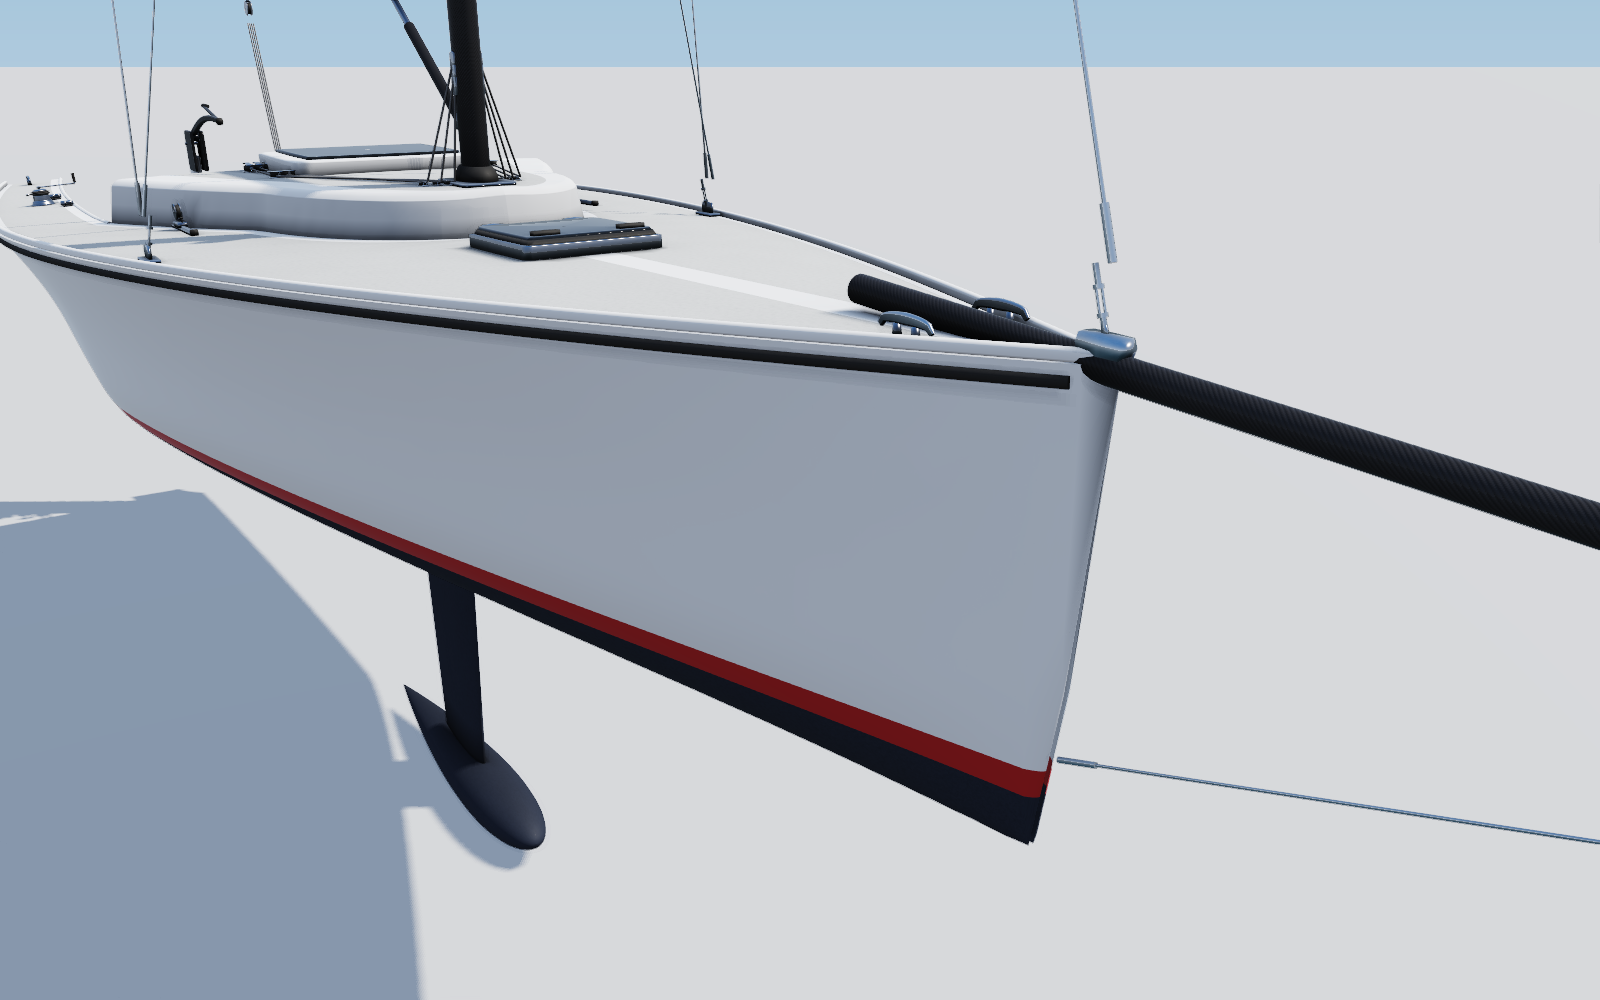
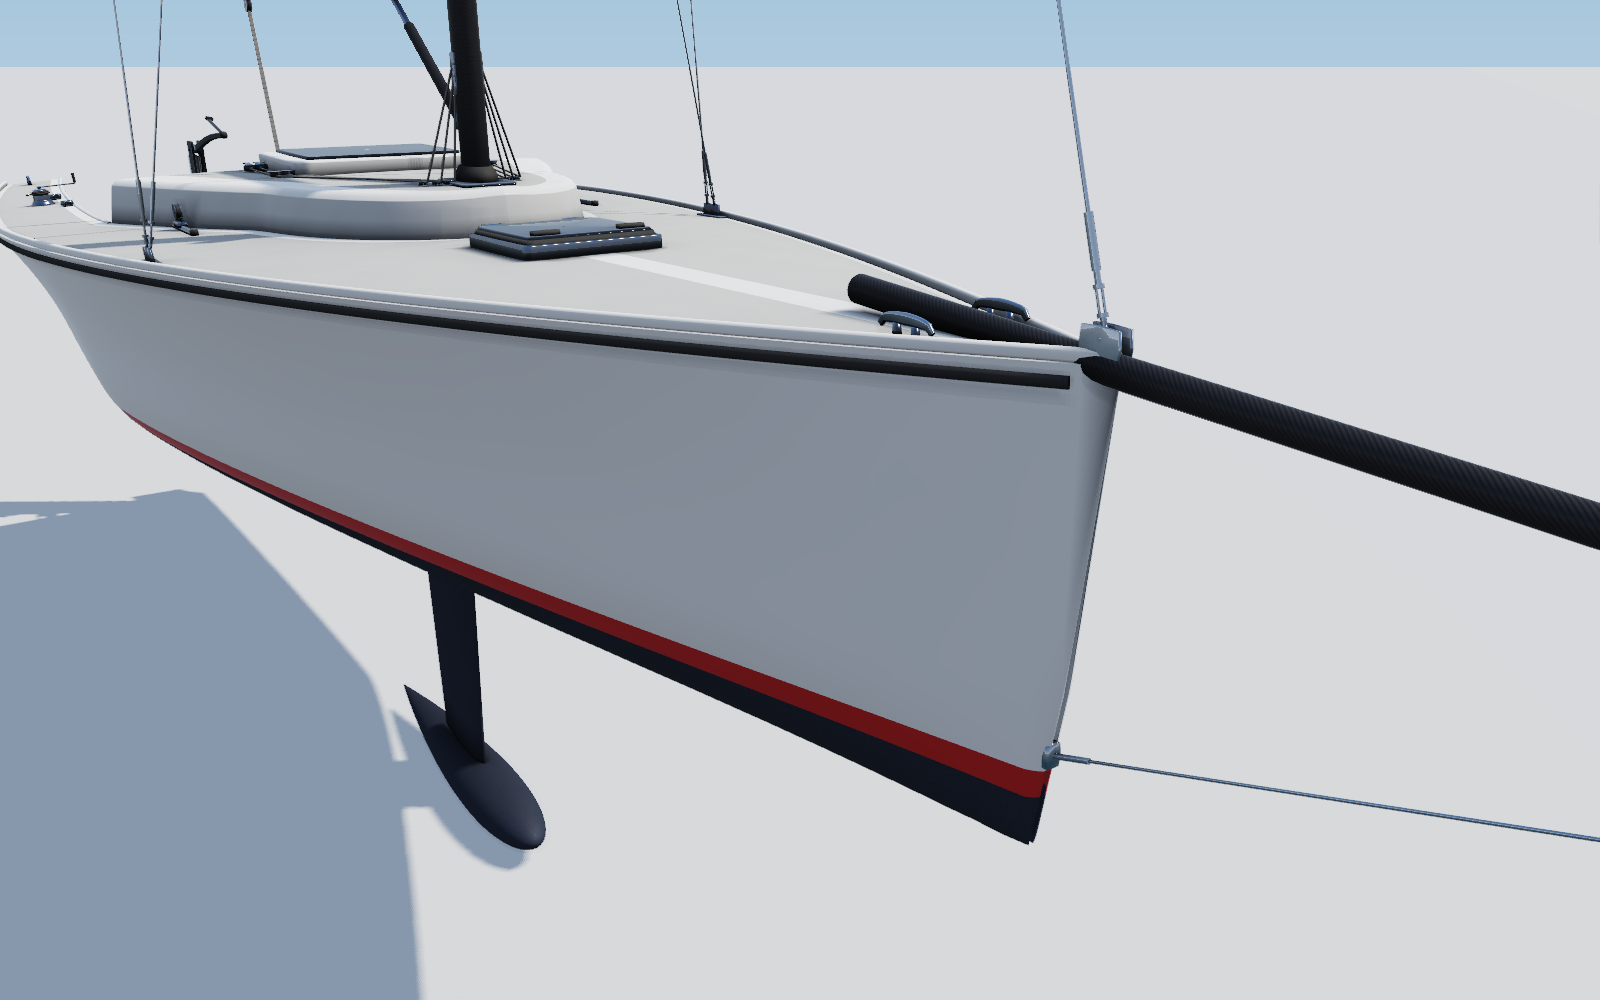
[feature] Boatgen: real-material look for gelcoat, non-slip, metal and rope
- gelcoat 0.72 linear with a soft sheen (factor under the 0.8 cap), matt greyer non-slip
- procedural moulded diamond non-slip texture set replaces the pebble leather
- polished stainless metal, flecked braid rope, rubber
- previews regenerated

diff --git a/tools/boatgen/boatgen/textures.py b/tools/boatgen/boatgen/textures.py
@@ -9,7 +9,8 @@ detail around a mean of one, so a slot's average look does not depend on the tex
 - `<set>_normal.jpg`: tangent-space normal map, OpenGL convention (+Y up), as glTF expects
 
 The images are made from CC0 materials of ambientCG (docs/THIRD_PARTY.md) by `python3 -m boatgen.textures`, which
-downloads the 1K sources and writes the processed files. The build only reads the processed files.
+downloads the 1K sources and writes the processed files; sets without a source asset (the moulded non-slip) are
+drawn here (`--procedural` rewrites only those). The build only reads the processed files.
 """
 import io
 import os
@@ -29,19 +30,19 @@ ROUGH_MEAN = 0.80
 # set -> (ambientCG asset, colour detail contrast, roughness contrast, normal strength)
 SETS = {
     "orange_peel": ("Plastic013A", 0.15, 0.4, 1.0),   # gelcoat and paint: slight orange peel
-    "pebble": ("Leather026", 0.35, 0.6, 1.4),         # moulded non-slip grain
     "grain": ("Rubber004", 0.35, 0.5, 0.8),           # rolled antifouling, rubber
     "carbon_twill": ("Fabric004", 1.0, 0.6, 1.0),     # carbon twill weave
     "brushed": ("Metal009", 0.4, 0.6, 0.6),           # brushed stainless and aluminium
     "weave": ("Fabric062", 0.35, 0.3, 0.0),           # sailcloth (no normal map, sail_visuals.md 9)
     "braid": ("Rope002", 0.8, 0.4, 1.0),              # braided rope
+    "diamond": (None, 0.25, 0.35, 1.0),               # moulded non-slip: raised diamond pattern (procedural)
 }
 
 # slot -> (set or None, tile size in metres: one image covers tiling_m x tiling_m of uv0)
 SLOTS = {
     "gelcoat": ("orange_peel", 0.5),
     "boottop": ("orange_peel", 0.5),
-    "nonslip": ("pebble", 0.25),
+    "nonslip": ("diamond", 0.1),
     "antifouling": ("grain", 0.5),
     "rubber": ("grain", 0.1),
     "carbon": ("carbon_twill", 0.05),
@@ -104,9 +105,51 @@ def process(set_name, zip_bytes):
         os.remove(p["normal"])
 
 
+def diamond(period_px=32, seed=7):
+    """Moulded non-slip, made here (no source asset): a grid of raised, flat-topped pyramids turned 45 degrees,
+    repeating every `period_px` along each image axis (16 across the tile, about 6 mm at the 0.1 m tile), with a
+    little moulding noise. The grooves are darker (dirt, occlusion) and rougher than the worn tops. Seamless."""
+    rng = np.random.default_rng(seed)
+    v, u = np.mgrid[0:SIZE, 0:SIZE].astype(np.float64)
+    a, b = (u + v) / period_px, (u - v) / period_px
+    # distance to the nearest groove line in each direction, 0 at a groove, 0.5 at a pyramid centre
+    da, db = np.abs(a - np.round(a)), np.abs(b - np.round(b))
+    h = np.clip(np.minimum(da, db) / 0.32, 0, 1)            # pyramid flanks, flat top above 0.32
+    # periodic low-frequency noise: a few waves with whole numbers of cycles across the tile
+    noise = np.zeros_like(h)
+    for _ in range(12):
+        fu, fv = rng.integers(1, 9, 2)
+        noise += np.cos(2 * np.pi * (fu * u + fv * v) / SIZE + rng.uniform(0, 2 * np.pi))
+    noise /= 12 ** 0.5 * 2
+    h = h + 0.06 * noise
+    # normal from the height gradient (wrapping, so the tile repeats), OpenGL convention
+    gx = (np.roll(h, -1, 1) - np.roll(h, 1, 1)) * 0.5
+    gy = (np.roll(h, -1, 0) - np.roll(h, 1, 0)) * 0.5
+    k = 2.2
+    n = np.stack([-k * gx, k * gy, np.ones_like(h)], -1)
+    n /= np.linalg.norm(n, axis=-1, keepdims=True)
+    col = _detail(0.75 + 0.25 * h, DETAIL_MEAN, 1.0)
+    rough = _detail(1.15 - 0.3 * h, ROUGH_MEAN, 1.0)
+    return col, rough, n
+
+
+def process_procedural(set_name):
+    col, rough, n = {"diamond": diamond}[set_name]()
+    p = paths(set_name)
+    grey = _lin_to_srgb(col)
+    mr = np.stack([np.ones_like(rough), rough, np.ones_like(rough)], -1)
+    Image.fromarray((np.repeat(grey[..., None], 3, -1) * 255 + 0.5).astype(np.uint8)).save(p["color"], quality=92)
+    Image.fromarray((mr * 255 + 0.5).astype(np.uint8)).save(p["mr"], quality=92)
+    Image.fromarray(((n * 0.5 + 0.5) * 255 + 0.5).astype(np.uint8)).save(p["normal"], quality=95)
+
+
 def fetch(set_names=None, cache=None):
     for s in set_names or SETS:
         asset = SETS[s][0]
+        if asset is None:
+            process_procedural(s)
+            print(f"{s}: procedural -> {', '.join(os.path.basename(v) for v in paths(s).values())}")
+            continue
         url = f"https://ambientcg.com/get?file={asset}_1K-JPG.zip"
         local = os.path.join(cache, f"{asset}.zip") if cache else None
         if local and os.path.exists(local):
@@ -126,4 +169,4 @@ if __name__ == "__main__":
     np.seterr(all="ignore")   # spurious BLAS flags in matmul on some platforms
     args = sys.argv[1:]
     cache = args[args.index("--cache") + 1] if "--cache" in args else None
-    fetch(cache=cache)
+    fetch([s for s in SETS if SETS[s][0] is None] if "--procedural" in args else None, cache=cache)

diff --git a/tools/boatgen/boatgen/gltf.py b/tools/boatgen/boatgen/gltf.py
@@ -13,17 +13,20 @@ from . import textures as tex
 
 # name -> (mean base colour RGBA linear, metallic, mean roughness); the tile size and texture set are in
 # textures.SLOTS. With textures the factors are divided by the texture means, so the mean look stays the same.
+# Real-material values (docs/specs/data_format.md 3.7): a white gelcoat reflects about 70 % and keeps a soft sheen,
+# not a mirror; the moulded non-slip is a shade greyer and matt; deck metal is polished stainless (about 60 %,
+# slightly blurred); rope is a flecked braid. No mean colour is above the boat shader's 0.8 albedo cap.
 MATERIALS = {
-    "gelcoat":     ((0.90, 0.91, 0.92, 1.0), 0.0, 0.16),
-    "nonslip":     ((0.58, 0.59, 0.58, 1.0), 0.0, 0.80),
+    "gelcoat":     ((0.72, 0.72, 0.70, 1.0), 0.0, 0.22),
+    "nonslip":     ((0.47, 0.47, 0.45, 1.0), 0.0, 0.85),
     "antifouling": ((0.035, 0.045, 0.07, 1.0), 0.0, 0.75),
     "boottop":     ((0.50, 0.03, 0.03, 1.0), 0.0, 0.25),
     "carbon":      ((0.035, 0.035, 0.038, 1.0), 0.1, 0.30),
-    "metal":       ((0.80, 0.80, 0.82, 1.0), 1.0, 0.28),
+    "metal":       ((0.62, 0.62, 0.64, 1.0), 1.0, 0.22),
     "sailcloth":   ((0.80, 0.80, 0.78, 1.0), 0.0, 0.55),
     "glass":       ((0.02, 0.025, 0.03, 1.0), 0.0, 0.05),
-    "rope":        ((0.30, 0.30, 0.30, 1.0), 0.0, 0.80),
-    "rubber":      ((0.04, 0.04, 0.04, 1.0), 0.0, 0.70),
+    "rope":        ((0.34, 0.33, 0.31, 1.0), 0.0, 0.85),
+    "rubber":      ((0.05, 0.05, 0.05, 1.0), 0.0, 0.80),
 }
 
 

diff --git a/tools/boatgen/tests/test_textures_ao.py b/tools/boatgen/tests/test_textures_ao.py
@@ -48,6 +48,13 @@ class TexturesAOTest(unittest.TestCase):
                 self.assertEqual(info["texCoord"], 0)
                 np.testing.assert_allclose(info["extensions"]["KHR_texture_transform"]["scale"], [1 / tiling] * 2)
             self.assertEqual("normalTexture" in m, textures.has_normal(tset))
+        # real-material albedo (data_format.md 3.7): every slot's mean at most 0.8 linear, and the gelcoat's factor
+        # too, so the boat shader's cap never flattens a white hull
+        for name, (col, met, rough) in gltf.MATERIALS.items():
+            self.assertLessEqual(max(col[:3]), 0.8, name)
+        gel = next(m for m in doc["materials"] if m["name"] == "gelcoat")
+        self.assertLessEqual(max(gel["pbrMetallicRoughness"]["baseColorFactor"][:3]), 0.8)
+        self.assertEqual(textures.SLOTS["nonslip"][0], "diamond", "non-slip has its moulded pattern")
         sail = next(m for m in doc["materials"] if m["name"] == "sailcloth")
         self.assertNotIn("normalTexture", sail, "sails carry no normal map (sail_visuals.md 9)")
 

diff --git a/docs/THIRD_PARTY.md b/docs/THIRD_PARTY.md
@@ -11,7 +11,6 @@
 | doctest 2.4.12 | core tests (`core/third_party/doctest`, test builds only) | MIT | https://github.com/doctest/doctest |
 | godot-cpp 10.0.0-stable (commit 507ed9d) | the GDExtension (`game/native`; fetched by `game/native/build.sh` into `game/native/third_party`, not committed), linked into `game/bin/libwindmark_godot.*` | MIT | https://github.com/godotengine/godot-cpp |
 | ambientCG Plastic013A | tools/boatgen/textures/orange_peel_* (processed: grey, 512 px), embedded in generated boat GLBs | CC0 1.0 | https://ambientcg.com/a/Plastic013A |
-| ambientCG Leather026 | tools/boatgen/textures/pebble_* (processed: grey, 512 px), embedded in generated boat GLBs | CC0 1.0 | https://ambientcg.com/a/Leather026 |
 | ambientCG Rubber004 | tools/boatgen/textures/grain_* (processed: grey, 512 px), embedded in generated boat GLBs | CC0 1.0 | https://ambientcg.com/a/Rubber004 |
 | ambientCG Fabric004 | tools/boatgen/textures/carbon_twill_* (processed: grey, 512 px), embedded in generated boat GLBs | CC0 1.0 | https://ambientcg.com/a/Fabric004 |
 | ambientCG Metal009 | tools/boatgen/textures/brushed_* (processed: grey, 512 px), embedded in generated boat GLBs | CC0 1.0 | https://ambientcg.com/a/Metal009 |

diff --git a/tools/boatgen/README.md b/tools/boatgen/README.md
@@ -317,7 +317,7 @@ slots and each image is embedded once per GLB (JPEG, 512 x 512, about 1.2 MB in 
 | set | slots | tile (m) | source (CC0, docs/THIRD_PARTY.md) |
 | --- | --- | --- | --- |
 | `orange_peel` | gelcoat, boottop | 0.5 | ambientCG Plastic013A |
-| `pebble` | nonslip | 0.25 | ambientCG Leather026 |
+| `diamond` | nonslip | 0.1 | procedural (textures.py): moulded raised-diamond non-slip, about 6 mm pitch |
 | `grain` | antifouling, rubber | 0.5, 0.1 | ambientCG Rubber004 |
 | `carbon_twill` | carbon | 0.05 | ambientCG Fabric004 |
 | `brushed` | metal | 0.2 | ambientCG Metal009 |
